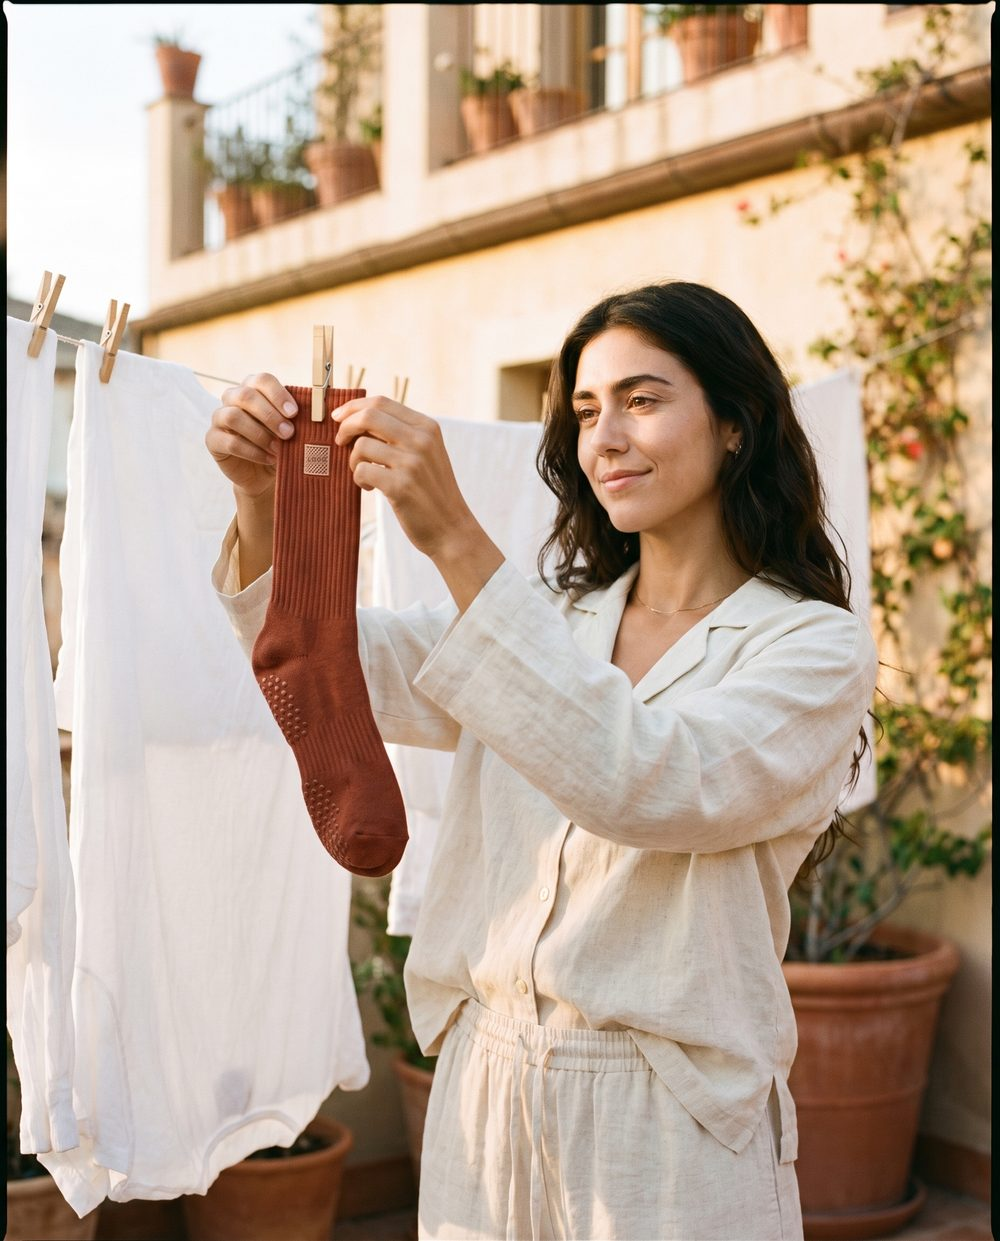
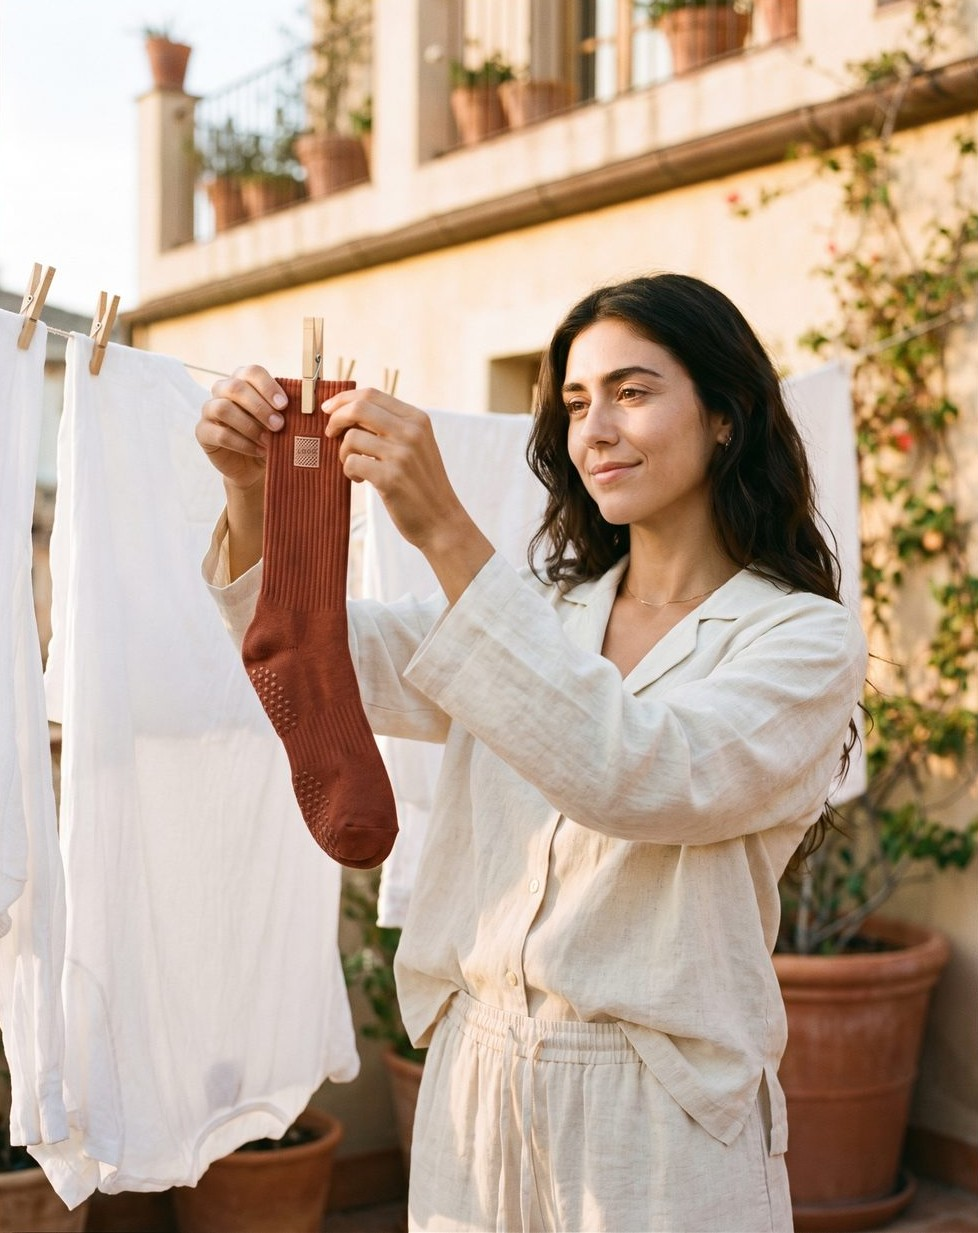
Verbeter overgang, retentie-foto, omrastering ontzorg-blok en cijfers-tekst
- Nieuwe pijl + CTA-knop na de trust-band bridge-zin, linkt door naar
  "Wat verandert" (#wat-verandert)
- Zwarte randlijn weggecropt uit feature-sok-waslijn.jpg/.webp (bron-
  bestand had een dunne zwarte rand aan boven-, links- en rechterkant)
- Jij/Wij ontzorg-grid in een subtiele omrastering (.care-frame) gezet
  i.p.v. los zwevend; 100%-garantiebanner herontworpen in dezelfde
  omrastering met terracotta-accent en krappere, to-the-point tekst
- Lede/closer van "De cijfers, zonder luchtkastelen" ingekort; titel en
  kassabon ongewijzigd gelaten

Claude-Session: https://claude.ai/code/session_01A74hPeLvyaDHVtWiNJef7b

diff --git a/site/nl/index.html b/site/nl/index.html
@@ -1036,31 +1036,41 @@ footer a{white-space:nowrap}
 @media(max-width:480px){.journey{gap:8px;max-width:300px}.journey-pt{font-size:.66rem}}
 .turn-close{position:relative;z-index:2;margin:28px auto 0;font-family:'Fraunces',serif;font-style:italic;font-weight:500;font-size:clamp(1.35rem,2.8vw,1.8rem);color:var(--ochre);max-width:20em;line-height:1.25}
 .turn-bridge{margin:20px auto 0;font-size:.96rem;color:rgba(245,238,224,.68)}
+.turn-cta{position:relative;z-index:2;display:flex;flex-direction:column;align-items:center;gap:16px;margin:32px auto 0}
+.turn-cta .turn-arrow{width:30px;height:30px;color:var(--ochre);opacity:.85;animation:turnArrowBounce 2.4s ease-in-out infinite}
+.turn-cta .turn-arrow svg{width:100%;height:100%}
+.turn-cta .btn{white-space:normal;max-width:380px;text-align:center;line-height:1.3}
+@keyframes turnArrowBounce{0%,100%{transform:translateY(0)}50%{transform:translateY(7px)}}
+@media(prefers-reduced-motion:reduce){.turn-cta .turn-arrow{animation:none}}
+@media(max-width:560px){.turn-cta .btn{width:100%}}
 .why-section{padding:88px 0 40px}
 .why-card h3{font-size:1.28rem}
 .mania-n{font-family:'Fraunces',serif;font-weight:500;font-size:2.1rem;color:var(--terra-2);line-height:1;margin-bottom:10px;position:relative}
 
 /* ---------- ontzorgen: jij vs wij ---------- */
-.care-you-strip{display:flex;flex-wrap:wrap;align-items:center;justify-content:center;gap:12px 16px;margin:34px auto 0;padding:15px 30px;background:rgba(46,64,52,.06);border-radius:999px;max-width:620px}
+.care-frame{position:relative;max-width:940px;margin:34px auto 26px;padding:40px 42px 36px;border:1.5px solid rgba(46,64,52,.15);border-radius:30px;background:linear-gradient(180deg,rgba(46,64,52,.035),rgba(46,64,52,0) 40%)}
+.care-you-strip{display:flex;flex-wrap:wrap;align-items:center;justify-content:center;gap:12px 16px;margin:0 auto;padding:15px 30px;background:rgba(46,64,52,.07);border-radius:999px;max-width:560px}
 .cys-label{font-family:'Fraunces',serif;font-weight:600;font-size:.98rem;color:var(--green);flex:none}
 .cys-items{display:flex;align-items:center;gap:9px;flex-wrap:wrap;font-size:.92rem;color:#3c443c}
 .cys-n{display:inline-flex;align-items:center;justify-content:center;width:19px;height:19px;border-radius:50%;background:var(--green);color:var(--cream);font-size:.66rem;font-weight:700;margin-right:6px;flex:none}
 .cys-sep{color:#b7b2a4;margin:0 2px}
-.care-divider{display:flex;align-items:center;gap:14px;max-width:640px;margin:34px auto 28px;color:var(--terra-2);font-family:'Fraunces',serif;font-weight:600;font-size:1.1rem;text-align:center}
+.care-divider{display:flex;align-items:center;gap:14px;max-width:640px;margin:30px auto 28px;color:var(--terra-2);font-family:'Fraunces',serif;font-weight:600;font-size:1.1rem;text-align:center}
 .care-divider::before,.care-divider::after{content:"";flex:1;height:1px;background:rgba(184,90,58,.25)}
-.care-grid{display:grid;grid-template-columns:repeat(3,1fr);gap:28px 30px;margin:0 0 32px;max-width:900px;margin-left:auto;margin-right:auto}
+.care-grid{display:grid;grid-template-columns:repeat(3,1fr);gap:28px 30px;margin:0 0 30px;max-width:900px;margin-left:auto;margin-right:auto}
 .care-item{display:flex;gap:12px;align-items:flex-start}
 .ci-check{flex:none;width:22px;height:22px;border-radius:50%;background:rgba(208,106,63,.14);color:var(--terra-2);font-size:.64rem;font-weight:800;display:flex;align-items:center;justify-content:center;margin-top:2px}
 .care-item b{display:block;color:var(--green);font-weight:700;font-size:.96rem;margin-bottom:3px}
 .care-item span.ci-txt{font-size:.87rem;line-height:1.4;color:#5b6259}
-.care-note{text-align:center;font-family:'Fraunces',serif;font-style:italic;font-weight:500;color:var(--green);font-size:1.08rem;margin:0 0 28px;max-width:30em;margin-left:auto;margin-right:auto}
-.care-guarantee{display:flex;align-items:center;gap:20px;max-width:720px;margin:0 auto 44px;padding:22px 30px;background:var(--green);color:var(--cream);border-radius:20px}
-.care-guarantee .seal{flex:none;width:60px;height:60px;border-radius:50%;background:rgba(245,238,224,.14);border:1.5px solid rgba(245,238,224,.32);display:flex;align-items:center;justify-content:center;color:var(--ochre);font-family:'Fraunces',serif;font-weight:700;font-size:1.05rem}
-.care-guarantee p{margin:0;font-size:.95rem;line-height:1.48}
-.care-guarantee b{color:var(--ochre);font-weight:700}
+.care-note{text-align:center;font-family:'Fraunces',serif;font-style:italic;font-weight:500;color:var(--green);font-size:1.08rem;margin:0;max-width:30em;margin-left:auto;margin-right:auto}
+.care-guarantee{display:flex;align-items:center;gap:22px;margin:18px auto 44px;padding:28px 42px;color:var(--green)}
+.care-frame-terra{border-color:rgba(208,106,63,.32);background:linear-gradient(180deg,rgba(208,106,63,.07),rgba(208,106,63,.02) 60%)}
+.care-guarantee .seal{flex:none;width:60px;height:60px;border-radius:50%;background:rgba(208,106,63,.12);border:1.5px solid rgba(208,106,63,.4);display:flex;align-items:center;justify-content:center;color:var(--terra-2);font-family:'Fraunces',serif;font-weight:700;font-size:1.05rem}
+.care-guarantee p{margin:0;font-size:.95rem;line-height:1.48;color:#3c443c}
+.care-guarantee b{color:var(--terra-2);font-weight:700}
 @media(max-width:900px){.care-grid{grid-template-columns:repeat(2,1fr)}}
+@media(max-width:700px){.care-frame{padding:32px 24px 28px;border-radius:24px}}
 @media(max-width:560px){.care-grid{grid-template-columns:1fr}.care-you-strip{flex-direction:column;text-align:center;border-radius:20px}}
-@media(max-width:600px){.care-guarantee{flex-direction:column;text-align:center;padding:26px 24px}}
+@media(max-width:600px){.care-guarantee{flex-direction:column;text-align:center;padding:26px 24px;gap:16px}}
 
 .mania-icon{width:52px;height:52px;border-radius:50%;background:rgba(208,106,63,.12);color:var(--terra-2);display:flex;align-items:center;justify-content:center;margin-bottom:18px}
 .mania-icon svg{width:25px;height:25px}
@@ -1185,6 +1195,10 @@ footer a{white-space:nowrap}
       </div>
       <p class="turn-close">Je hebt een premium studio gebouwd. Dan verdient alles dat niveau.</p>
       <p class="trust-sub turn-bridge">En het is meteen je beste antwoord op die concurrentie: eigen merchandise onderscheidt je van de studio om de hoek, op de vier vlakken hieronder.</p>
+      <div class="turn-cta">
+        <span class="turn-arrow" aria-hidden="true"><svg viewBox="0 0 24 24" fill="none" stroke="currentColor" stroke-width="2" stroke-linecap="round" stroke-linejoin="round"><path d="M12 4v15M6 13l6 6 6-6"/></svg></span>
+        <a class="btn" href="#wat-verandert">Bekijk direct wat dit oplevert voor jouw studio</a>
+      </div>
     </div>
   </div>
 </div>
@@ -1192,7 +1206,7 @@ footer a{white-space:nowrap}
 
 <!-- ============ 4 · WAT VERANDERT + 5 · DRIE OBSESSIES & ONTZORGD PROCES + 6 · COLLECTIE ============ -->
 <section class="sheet cream">
-<section class="why-section">
+<section class="why-section" id="wat-verandert">
   <div class="wrap">
     <div class="why-head">
       <span class="kicker-insight">Je leden kopen tóch al antislipsokken. Verplicht, elke les.</span>
@@ -1213,7 +1227,7 @@ footer a{white-space:nowrap}
       </div>
       <div class="feature-row">
         <div class="fimg">
-          <picture><source srcset="../images/feature-sok-waslijn.webp" type="image/webp"><img src="../images/feature-sok-waslijn.jpg" width="1000" height="1241" alt="Vrouw haalt een antislipsok met studio-logo van de waslijn" loading="lazy"></picture>
+          <picture><source srcset="../images/feature-sok-waslijn.webp" type="image/webp"><img src="../images/feature-sok-waslijn.jpg" width="978" height="1233" alt="Vrouw haalt een antislipsok met studio-logo van de waslijn" loading="lazy"></picture>
         </div>
         <div class="ftxt">
           <span class="fn">02</span>
@@ -1256,26 +1270,29 @@ footer a{white-space:nowrap}
       <h2>Jij geeft les. <span class="fx">Wij ontzorgen de rest.</span></h2>
       <p>Premium is niet alleen het product. Het is ook hoe soepel het hele proces voor jou verloopt, van het eerste mockup tot de doos bij je voordeur.</p>
     </div>
-    <div class="care-you-strip">
-      <span class="cys-label">Jij regelt</span>
-      <span class="cys-items"><span class="cys-n">1</span>Stuur je logo<span class="cys-sep">·</span><span class="cys-n">2</span>Keur het mockup goed</span>
+    <div class="care-frame">
+      <div class="care-you-strip">
+        <span class="cys-label">Jij regelt</span>
+        <span class="cys-items"><span class="cys-n">1</span>Stuur je logo<span class="cys-sep">·</span><span class="cys-n">2</span>Keur het mockup goed</span>
+      </div>
+
+      <div class="care-divider"><span>Wij regelen de rest</span></div>
+
+      <div class="care-grid">
+        <div class="care-item"><span class="ci-check" aria-hidden="true">✓</span><div><b>Kleur matchen op Pantone-code.</b><span class="ci-txt">Niet “ongeveer”, maar exact jouw tint.</span></div></div>
+        <div class="care-item"><span class="ci-check" aria-hidden="true">✓</span><div><b>Logo weven of borduren, in jouw stijl.</b><span class="ci-txt">Subtiel of groot, altijd gecontroleerd.</span></div></div>
+        <div class="care-item"><span class="ci-check" aria-hidden="true">✓</span><div><b>Antislipzool controleren op REACH.</b><span class="ci-txt">Veilig voor elk lid, elke les.</span></div></div>
+        <div class="care-item"><span class="ci-check" aria-hidden="true">✓</span><div><b>Elk paar los nakijken, vóór verpakking.</b><span class="ci-txt">Niets gaat de deur uit dat niet goed genoeg is.</span></div></div>
+        <div class="care-item"><span class="ci-check" aria-hidden="true">✓</span><div><b>Verpakken en verzenden met tracking.</b><span class="ci-txt">Jij weet precies waar je bestelling is.</span></div></div>
+        <div class="care-item"><span class="ci-check" aria-hidden="true">✓</span><div><b>Rechtstreeks naar je voordeur leveren.</b><span class="ci-txt">Geen tussenstop, geen gedoe.</span></div></div>
+      </div>
+
+      <p class="care-note">Jij tekent twee keer af. De andere zes stappen regelen wij, tot in de zool. Dat is pas ontzorgen.</p>
     </div>
 
-    <div class="care-divider"><span>Wij regelen de rest</span></div>
-
-    <div class="care-grid">
-      <div class="care-item"><span class="ci-check" aria-hidden="true">✓</span><div><b>Kleur matchen op Pantone-code.</b><span class="ci-txt">Niet “ongeveer”, maar exact jouw tint.</span></div></div>
-      <div class="care-item"><span class="ci-check" aria-hidden="true">✓</span><div><b>Logo weven of borduren, in jouw stijl.</b><span class="ci-txt">Subtiel of groot, altijd gecontroleerd.</span></div></div>
-      <div class="care-item"><span class="ci-check" aria-hidden="true">✓</span><div><b>Antislipzool controleren op REACH.</b><span class="ci-txt">Veilig voor elk lid, elke les.</span></div></div>
-      <div class="care-item"><span class="ci-check" aria-hidden="true">✓</span><div><b>Elk paar los nakijken, vóór verpakking.</b><span class="ci-txt">Niets gaat de deur uit dat niet goed genoeg is.</span></div></div>
-      <div class="care-item"><span class="ci-check" aria-hidden="true">✓</span><div><b>Verpakken en verzenden met tracking.</b><span class="ci-txt">Jij weet precies waar je bestelling is.</span></div></div>
-      <div class="care-item"><span class="ci-check" aria-hidden="true">✓</span><div><b>Rechtstreeks naar je voordeur leveren.</b><span class="ci-txt">Geen tussenstop, geen gedoe.</span></div></div>
-    </div>
-
-    <p class="care-note">Jij tekent twee keer af. De andere zes stappen regelen wij, tot in de zool. Dat is pas ontzorgen.</p>
-    <div class="care-guarantee">
+    <div class="care-guarantee care-frame care-frame-terra">
       <span class="seal" aria-hidden="true">100%</span>
-      <p><b>Garantie op topkwaliteit,</b> in het product én in de ontzorging. Niet goed? Dan lossen we het op, zonder gedoe. En elke vraag beantwoordt de oprichter zelf, persoonlijk.</p>
+      <p><b>Garantie op topkwaliteit,</b> in product én proces. Niet goed? Lossen we op, zonder gedoe. Iedere vraag beantwoordt de oprichter zelf.</p>
     </div>
 
     <div class="how" id="zo-werkt-het">
@@ -1385,8 +1402,8 @@ footer a{white-space:nowrap}
   <div class="wrap stats-grid">
     <div>
       <h2>De cijfers, <span class="fx">zonder luchtkastelen</span>.</h2>
-      <p class="lede">Je koopt in tegen groothandelsprijs, zonder btw. De verkoopprijs bepaal jij. Antislipsokken zijn verplicht in bijna elke les, dus je leden kopen ze toch al. De enige vraag is of ze jouw logo dragen, of dat van een ander.</p>
-      <p class="closer">Voorbeeld: een middelgrote studio met zo’n 300 actieve leden en 10 reformers houdt er ongeveer € 4.552 per jaar aan over, na btw. Een schatting, geen belofte: het hangt af van je leden en van hoe zichtbaar je het bij de receptie maakt.</p>
+      <p class="lede">Je koopt in tegen groothandelsprijs, zonder btw. De verkoopprijs bepaal je zelf. Antislipsokken zijn al verplicht in bijna elke les, dus je leden kopen ze toch. De enige vraag is met wiens logo.</p>
+      <p class="closer">Voorbeeld: een studio met zo’n 300 actieve leden en 10 reformers houdt hier ongeveer € 4.552 per jaar aan over, na btw. Geen belofte, een schatting: de uitkomst hangt af van je leden en van hoe zichtbaar je het bij de receptie maakt.</p>
       <span class="repeat-chip">Studio’s bestellen <b>meerdere keren per jaar</b> opnieuw</span>
     </div>
     <div class="receipt" role="img" aria-label="Margevoorbeeld: je betaalt 7,50 euro zonder btw, je verkoopt voor 17,95 euro inclusief btw, marge 7,35 euro na btw, 49 procent">
